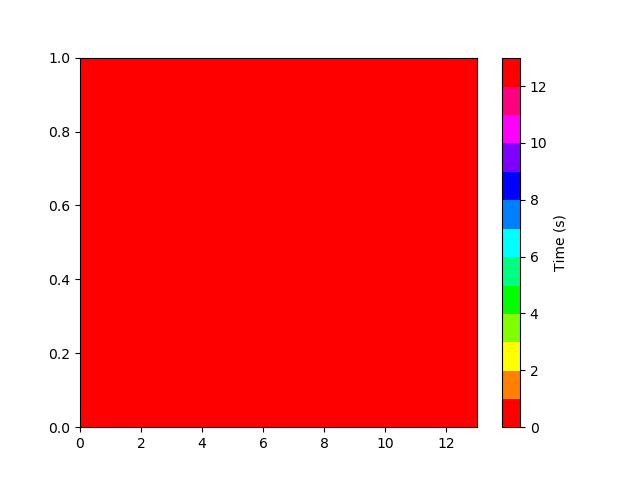
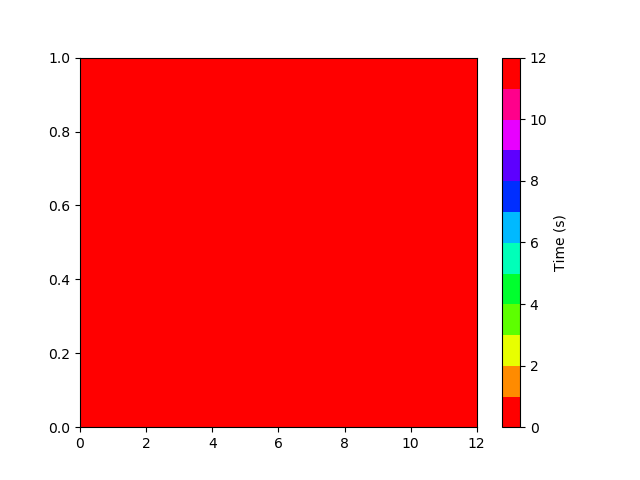
update

diff --git a/follow/scripts/bar_plot.py b/follow/scripts/bar_plot.py
@@ -5,10 +5,11 @@ import matplotlib.pyplot as plt
 
 import matplotlib
 
+time = 12
 fig, axs = plt.subplots(1)
-colors = [colorsys.hsv_to_rgb(h, 1, 1) for h in np.linspace(0, 1, 13)]
+colors = [colorsys.hsv_to_rgb(h, 1, 1) for h in np.linspace(0, 1, time)]
 cmap = matplotlib.colors.ListedColormap(colors)
-pcm = axs.pcolormesh(np.random.random((1, 13)), cmap=cmap, vmin=0, vmax=13)
+pcm = axs.pcolormesh(np.random.random((1, time)), cmap=cmap, vmin=0, vmax=time)
 
 fig.colorbar(pcm, ax=axs, label='Time (s)')
 
